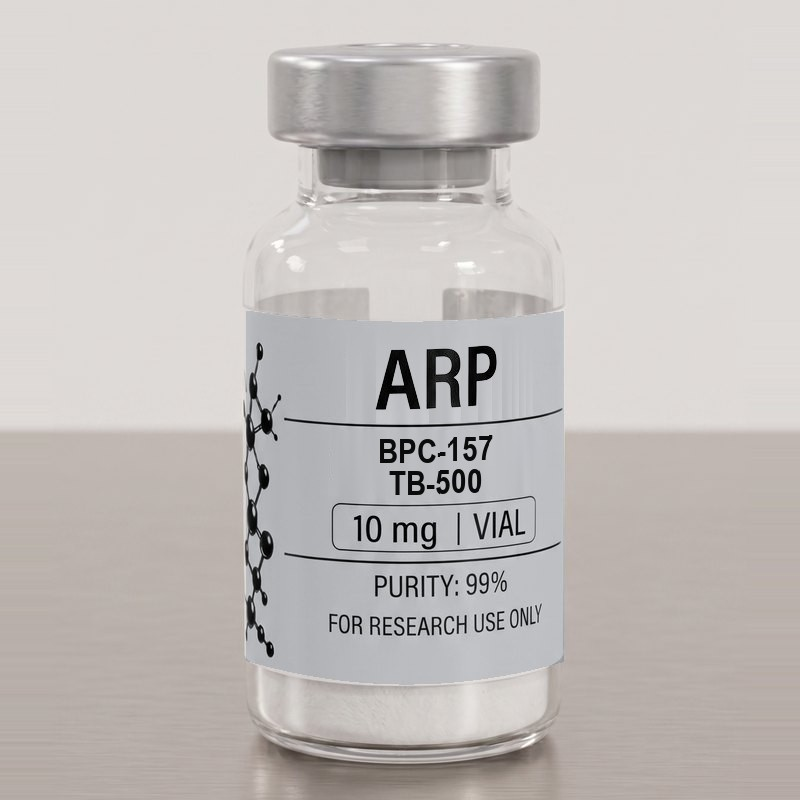
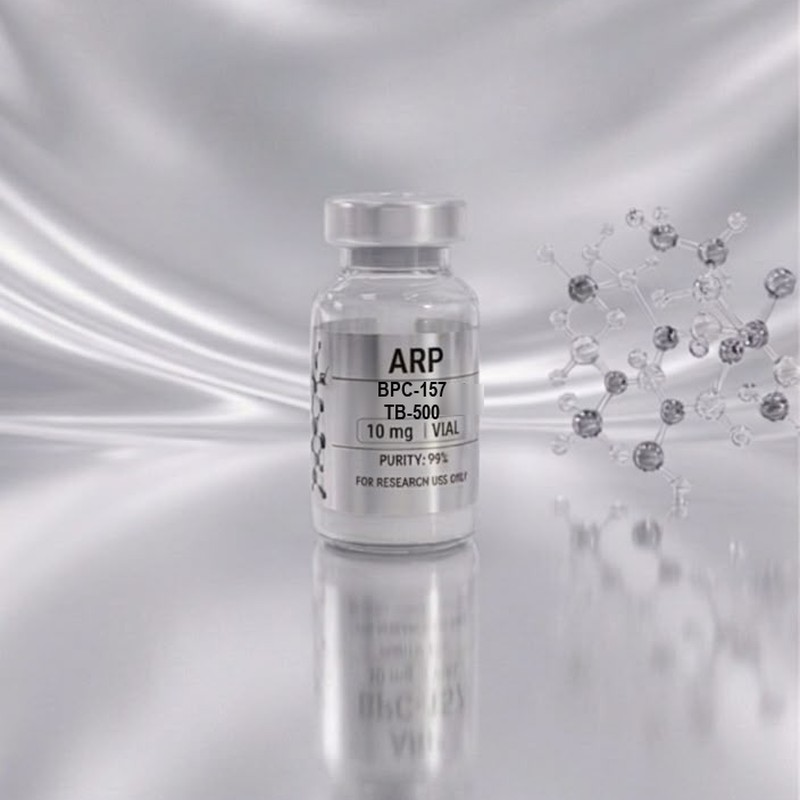
changing all products images and removing "comming soon"

diff --git a/assets/js/main.js b/assets/js/main.js
@@ -69,19 +69,17 @@
   }
 
   function cardHtml(p) {
-    var comingSoon = !(p.descriptionHtml && p.descriptionHtml.trim());
     var sizes = formatSizes(p.sizes);
     var href = 'product.html?slug=' + encodeURIComponent(p.slug);
     return '' +
       '<a class="product-card" href="' + href + '">' +
         '<div class="product-card__imgwrap">' +
           '<img src="' + escapeHtml(p.image) + '" alt="' + escapeHtml(p.name) + '" loading="lazy">' +
-          (comingSoon ? '<span class="product-card__badge">Coming soon</span>' : '') +
         '</div>' +
         '<div class="product-card__body">' +
           '<div class="product-card__title">' + escapeHtml(p.name) + '</div>' +
           (sizes ? '<div class="product-card__sizes">' + escapeHtml(sizes) + '</div>' : '') +
-          '<div class="product-card__cta' + (comingSoon ? ' product-card__cta--ghost' : '') + '">View</div>' +
+          '<div class="product-card__cta">View</div>' +
         '</div>' +
       '</a>';
   }
@@ -304,11 +302,11 @@
         }).join('') + '</select>'
       : '<input type="text" id="order-size" value="' + escapeHtml(product.sizes[0] || '') + '" readonly>';
 
+    // When a product has no description yet, simply omit the section (rather
+    // than showing a "coming soon" placeholder) so it reads as a normal product.
     var descHtml = product.descriptionHtml && product.descriptionHtml.trim()
       ? '<div class="product-description">' + product.descriptionHtml + '</div>'
-      : '<div class="product-description"><div class="coming-soon">' +
-          '<h3>Description coming soon</h3><p>Full product information for ' + escapeHtml(product.name) +
-          ' will be added shortly. Contact us for details in the meantime.</p></div></div>';
+      : '';
 
     root.innerHTML = '' +
       '<nav class="breadcrumb"><a href="index.html">Home</a> / <a href="products.html">Peptides</a> / ' + escapeHtml(product.name) + '</nav>' +

diff --git a/assets/js/products.js b/assets/js/products.js
@@ -155,7 +155,7 @@ window.PRODUCTS = [
     sizes: ['10mg', '20mg', '30mg'],
     specs: { contents: 'Retatrutide', form: 'Lyophilized powder', purity: '>99%', sku: 'P-RT' },
     image: 'assets/img/retatrutide.jpg',
-    descriptionHtml: ''
+    descriptionHtml: ''   // awaiting official copy from the client
   },
   {
     slug: 'tb-500',
